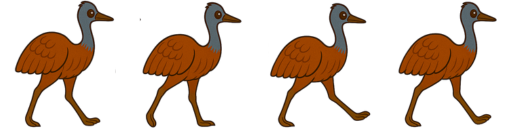
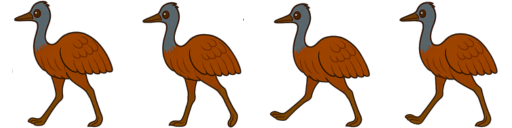
new emu

diff --git a/lib/components/obstacle.dart b/lib/components/obstacle.dart
@@ -1,4 +1,3 @@
-
 import 'dart:math';
 
 import 'package:flame/collisions.dart';
@@ -51,6 +50,7 @@ class Obstacle extends PositionComponent with HasGameReference<KangarooGame>, Co
         break;
     }
   }
+
   Future<void> _createCroc() async {
     // Load and add the crocodile image sprite
     final crocSprite = await game.loadSprite('croc.png');
@@ -63,12 +63,44 @@ class Obstacle extends PositionComponent with HasGameReference<KangarooGame>, Co
   }
 
   Future<void> _createEmu() async {
-    // Load and add the emu image sprite
-    final emuSprite = await game.loadSprite('emu.png');
+    // Load the emu sprite sheet for animation
+    final emuSpriteSheet = await game.images.load('emu_sheet.png');
     
-    add(SpriteComponent(
-      sprite: emuSprite,
-      size: size, // Use the obstacle's size (80x120)
+    // Create running animation with 4 frames (512x128 = 4 frames of 128x128)
+    final emuRunningAnimation = SpriteAnimation.fromFrameData(
+      emuSpriteSheet,
+      SpriteAnimationData([
+        // Frame 1
+        SpriteAnimationFrameData(
+          srcPosition: Vector2(0, 0),
+          srcSize: Vector2(128, 128),
+          stepTime: 0.12, // Slightly slower than kangaroo for variety
+        ),
+        // Frame 2
+        SpriteAnimationFrameData(
+          srcPosition: Vector2(128, 0),
+          srcSize: Vector2(128, 128),
+          stepTime: 0.12,
+        ),
+        // Frame 3
+        SpriteAnimationFrameData(
+          srcPosition: Vector2(256, 0),
+          srcSize: Vector2(128, 128),
+          stepTime: 0.12,
+        ),
+        // Frame 4
+        SpriteAnimationFrameData(
+          srcPosition: Vector2(384, 0),
+          srcSize: Vector2(128, 128),
+          stepTime: 0.12,
+        ),
+      ]),
+    );
+    
+    // Add the animated emu sprite
+    add(SpriteAnimationComponent(
+      animation: emuRunningAnimation,
+      size: size, // Use the obstacle's size
       position: Vector2.zero(), // Position relative to obstacle
     ));
   }
@@ -115,7 +147,7 @@ class Obstacle extends PositionComponent with HasGameReference<KangarooGame>, Co
         await _createCroc();
         break;
       case ObstacleType.emu:
-        await _createEmu();
+        await _createEmu(); // Now uses animated sprite!
         break;
       case ObstacleType.camel:
         await _createCamel();
@@ -151,7 +183,7 @@ class Obstacle extends PositionComponent with HasGameReference<KangarooGame>, Co
     
     add(RectangleHitbox(size: hitboxSize, position: hitboxPosition));
     
-    // Debug: Add visual collision box
+    // Debug: Add visual collision box (remove this in production)
     add(RectangleComponent(
       size: hitboxSize,
       position: hitboxPosition,
